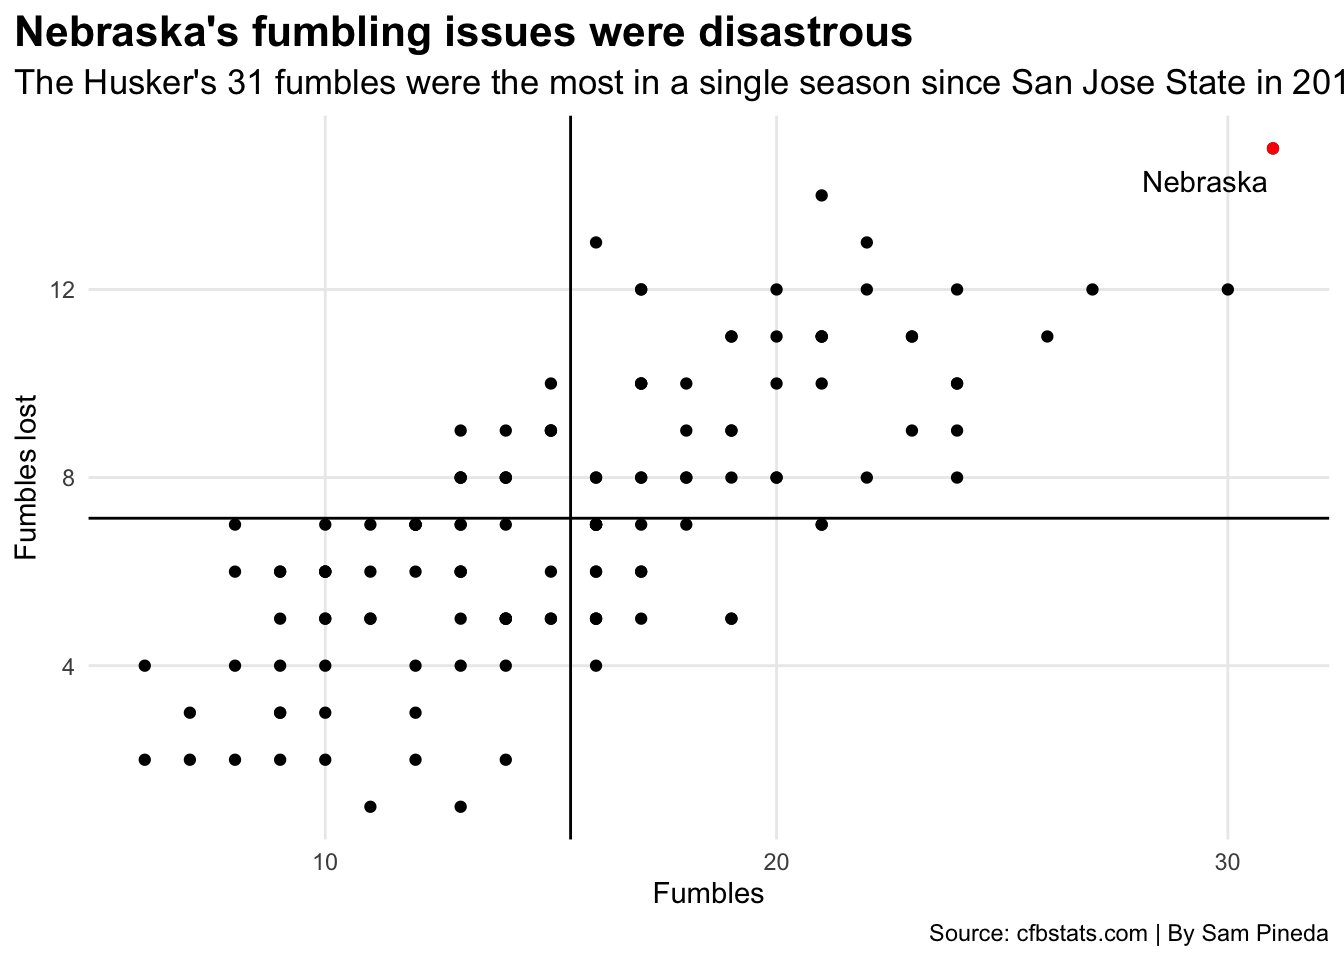
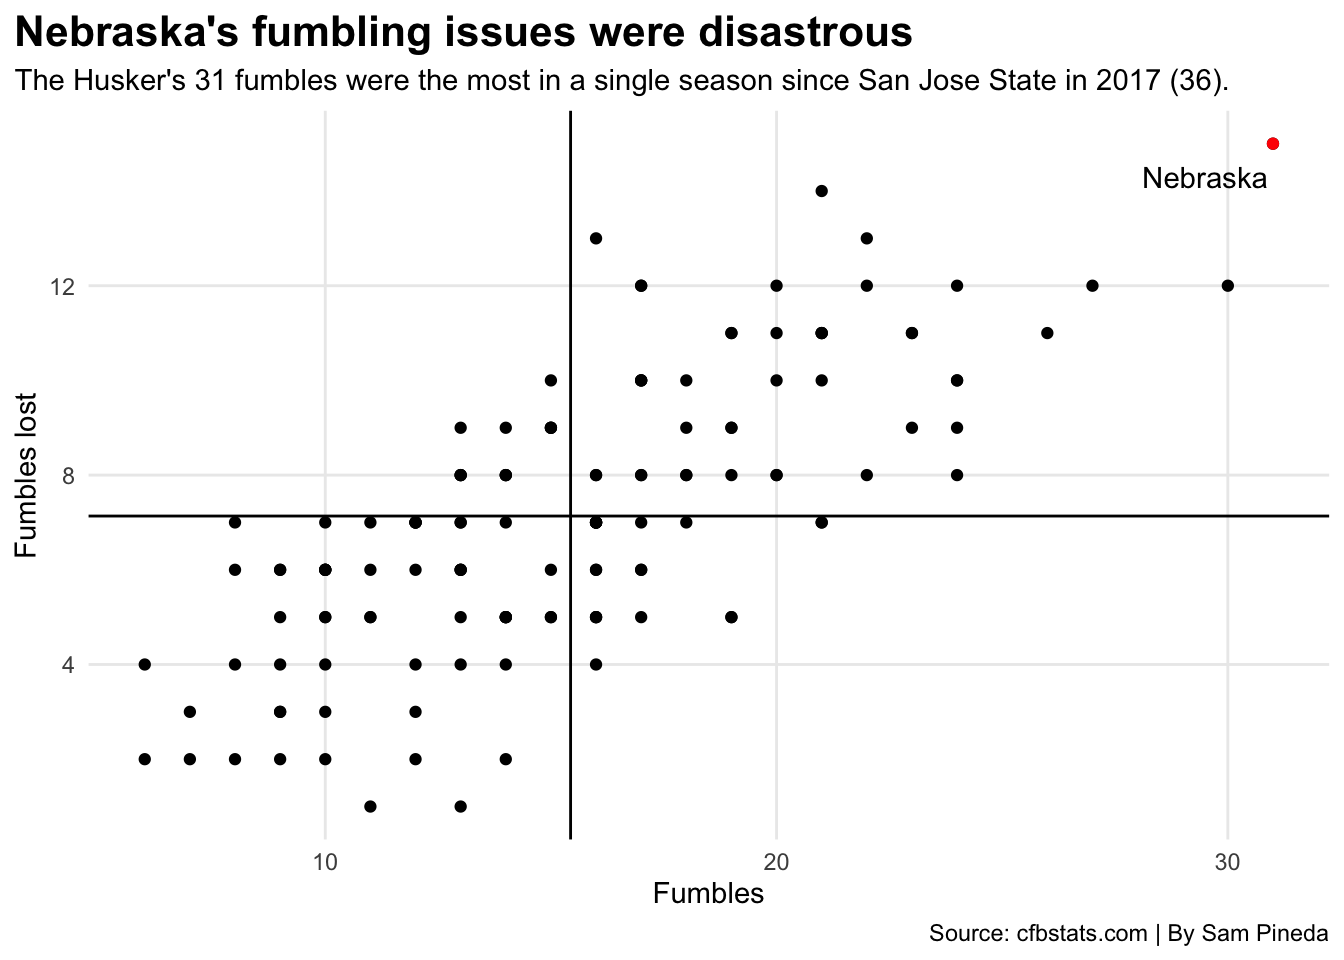
Changed font size in fourth chart.

diff --git a/posts/nebraska-football-offense-2023/index.html b/posts/nebraska-football-offense-2023/index.html
@@ -393,7 +393,7 @@ pre > code.sourceCode > span > a:first-child::before { text-decoration: underlin
 <span id="cb4-27"><a href="#cb4-27" aria-hidden="true" tabindex="-1"></a>  <span class="fu">theme</span>(</span>
 <span id="cb4-28"><a href="#cb4-28" aria-hidden="true" tabindex="-1"></a>    <span class="at">plot.title =</span> <span class="fu">element_text</span>(<span class="at">size =</span> <span class="dv">16</span>, <span class="at">face =</span> <span class="st">"bold"</span>),</span>
 <span id="cb4-29"><a href="#cb4-29" aria-hidden="true" tabindex="-1"></a>    <span class="at">axis.title =</span> <span class="fu">element_text</span>(<span class="at">size =</span> <span class="dv">11</span>), </span>
-<span id="cb4-30"><a href="#cb4-30" aria-hidden="true" tabindex="-1"></a>    <span class="at">plot.subtitle =</span> <span class="fu">element_text</span>(<span class="at">size=</span><span class="dv">13</span>), </span>
+<span id="cb4-30"><a href="#cb4-30" aria-hidden="true" tabindex="-1"></a>    <span class="at">plot.subtitle =</span> <span class="fu">element_text</span>(<span class="at">size=</span><span class="dv">11</span>), </span>
 <span id="cb4-31"><a href="#cb4-31" aria-hidden="true" tabindex="-1"></a>    <span class="at">panel.grid.minor =</span> <span class="fu">element_blank</span>(),</span>
 <span id="cb4-32"><a href="#cb4-32" aria-hidden="true" tabindex="-1"></a>    <span class="at">plot.title.position =</span> <span class="st">"plot"</span></span>
 <span id="cb4-33"><a href="#cb4-33" aria-hidden="true" tabindex="-1"></a>    )</span></code><button title="Copy to Clipboard" class="code-copy-button"><i class="bi"></i></button></pre></div>

diff --git a/index.html b/index.html
@@ -205,7 +205,7 @@ window.Quarto = {
 
 <div class="quarto-listing quarto-listing-container-default" id="listing-listing">
 <div class="list quarto-listing-default">
-<div class="quarto-post image-right" data-index="0" data-categories="bmNhYSxmb290YmFsbCxuZWJyYXNrYQ==" data-listing-date-sort="1730786400000" data-listing-file-modified-sort="1731817359352" data-listing-date-modified-sort="NaN" data-listing-reading-time-sort="7" data-listing-word-count-sort="1300">
+<div class="quarto-post image-right" data-index="0" data-categories="bmNhYSxmb290YmFsbCxuZWJyYXNrYQ==" data-listing-date-sort="1730786400000" data-listing-file-modified-sort="1731817620637" data-listing-date-modified-sort="NaN" data-listing-reading-time-sort="7" data-listing-word-count-sort="1300">
 <div class="thumbnail">
 <p><a href="./posts/nebraska-football-offense-2023/index.html" class="no-external"></a></p><a href="./posts/nebraska-football-offense-2023/index.html" class="no-external">
 <p class="card-img-top"><img src="posts/nebraska-football-offense-2023/index_files/figure-html/unnamed-chunk-1-1.png"  class="thumbnail-image card-img"/></p>
